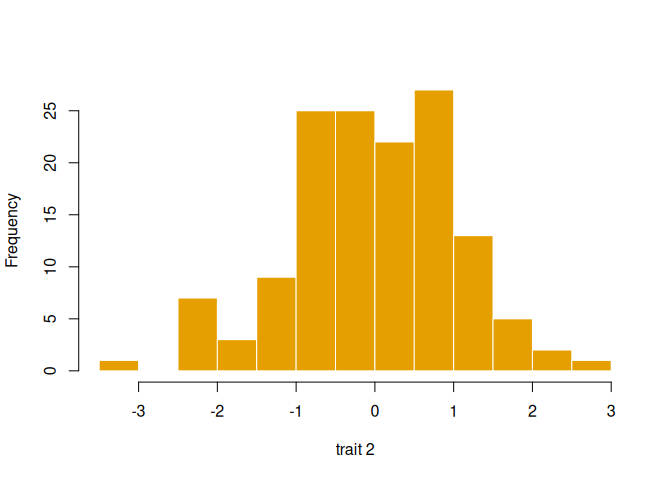
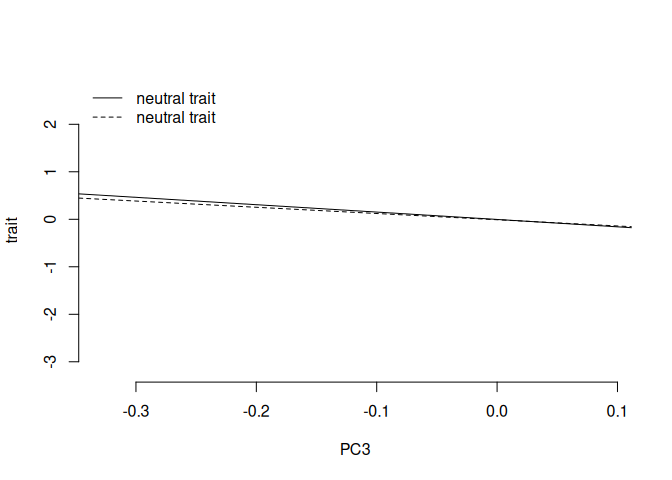
stuff

diff --git a/trait-sims.md b/trait-sims.md
@@ -50,27 +50,49 @@ cor.test(myZ[,1], myZ[,2])
 ## 0.3172595
 ```
 
-##2. Simulate trait data for 2 correlated traits where trait 1 is neutral and trait 2  is under selection.
+``` r
+par(mfrow=c(1,1))
+plot(myEig$vectors[,3],myZ[,2], xlab = "PC3", ylab = "trait", col="white", bty="n") #trait under selection
+abline(lm(myZ[,2]~myEig$vectors[,3]))
+abline(lm(myZ[,1]~myEig$vectors[,3]), lty=2)
+legend('topleft',c('neutral trait','neutral trait'),bty="n",lty=c(1,2))
+```
+
+![](trait-sims_files/figure-html/unnamed-chunk-1-2.png)<!-- -->
+
+##2. Simulate trait data for 2 correlated traits where trait 1 is neutral and trait 2  is under selection. No selection on plasticity or the reaction norm.
 
 
 ``` r
+tc = .6 #set trait cor
 myM = matrix(0, nrow=140, ncol=2)
-myV = matrix(c(1,.8,.8,1), nrow=2)
+myV = matrix(c(1,tc,tc,1), nrow=2)
 
+set.seed(555)
 #neutral traits
 myZ = matrix_normal(myM, myK, myV)
 
-#selected traits -- could add separate selection by adding different PCs into the mix. Yes, this is hacky. But right now what I'm doing in is adding the selection effect is the position on PC2*the variance explained by PC3 on trait 2. For trait 1, I'm multiplying this by the correlation btw traits
-selectionEffect = matrix(c(myEig$vectors[,3]*myEig$values[3]*.8, myEig$vectors[,3]*myEig$values[3]), nrow=140) 
+#selected traits -- could add separate selection by adding different PCs into the mix. Yes, this is hacky. But right now what I'm doing in is adding the selection effect is the position on PC3*the variance explained by PC3 on trait 2. For trait 1, I'm multiplying this by the correlation btw traits
+selectionEffect = matrix(c(myEig$vectors[,3]*myEig$values[3]*tc, myEig$vectors[,3]*myEig$values[3]), nrow=140) 
 myZs = myZ + selectionEffect
 
+par(mfrow=c(1,1))
+plot(myEig$vectors[,3],myZs[,2], xlab = "PC3", ylab = "trait", col="white", bty="n") #trait under selection
+abline(lm(myZs[,2]~myEig$vectors[,3]))
+abline(lm(myZs[,1]~myEig$vectors[,3]), lty=2)
+legend('topleft',c('selected trait','neutral trait'),bty="n",lty=c(1,2))
+```
+
+![](trait-sims_files/figure-html/unnamed-chunk-2-1.png)<!-- -->
+
+``` r
 par(mfrow=c(1,3))
 hist(myZs[,1], col = mycol[1], border="white", breaks=10, main = "", xlab = "trait 1")
 hist(myZs[,2], col = mycol[2], border="white", breaks=10, main= "", xlab = "trait 2")
 plot(myZs[,1], myZs[,2], xlab = "trait 1", ylab = "trait 2", bty="n", col = mycol[3], lwd=2)
 ```
 
-![](trait-sims_files/figure-html/unnamed-chunk-2-1.png)<!-- -->
+![](trait-sims_files/figure-html/unnamed-chunk-2-2.png)<!-- -->
 
 ``` r
 cor.test(myZ[,1], myZ[,2])
@@ -81,43 +103,25 @@ cor.test(myZ[,1], myZ[,2])
 ## 	Pearson's product-moment correlation
 ## 
 ## data:  myZ[, 1] and myZ[, 2]
-## t = 16.963, df = 138, p-value < 2.2e-16
+## t = 9.4973, df = 138, p-value < 2.2e-16
 ## alternative hypothesis: true correlation is not equal to 0
 ## 95 percent confidence interval:
-##  0.7598380 0.8694286
+##  0.5166893 0.7195517
 ## sample estimates:
 ##       cor 
-## 0.8221068
+## 0.6287001
 ```
 
 ``` r
-##does it work to create differences detectable by qpc
-myQpc1 = calcQpc(myZ = myZ[,1], myLambdas = myEig$values, myU = myEig$vectors, myM = 1:10, myL = 70:140)
+##does it work to create differences detectable by regular qpc
+
 myQpc1s = calcQpc(myZ = myZs[,1], myLambdas = myEig$values, myU = myEig$vectors, myM = 1:10, myL = 70:140)
-myQpc2 = calcQpc(myZ = myZ[,2], myLambdas = myEig$values, myU = myEig$vectors, myM = 1:10, myL = 70:140)
 myQpc2s = calcQpc(myZ = myZs[,2], myLambdas = myEig$values, myU = myEig$vectors, myM = 1:10, myL = 70:140)
-
-myQpc1$pvals[3]
-```
-
-```
-## [1] 0.9887872
-```
-
-``` r
 myQpc1s$pvals[3]
 ```
 
 ```
-## [1] 0.09973492
-```
-
-``` r
-myQpc2$pvals[3]
-```
-
-```
-## [1] 0.9509037
+## [1] 0.02213327
 ```
 
 ``` r
@@ -125,8 +129,74 @@ myQpc2s$pvals[3]
 ```
 
 ```
-## [1] 0.03481998
+## [1] 0.0004651775
 ```
 
+``` r
+#condQpc(myZs,, myM=3,myL=70:140)
+```
+
+##3 Now we want to simulate selection on the reaction norm
 
 
+``` r
+tc = .6 #set trait cor
+myM = matrix(0, nrow=140, ncol=2)
+myV = matrix(c(1,tc,tc,1), nrow=2)
+
+set.seed(555)
+myZ = matrix_normal(myM, myK, myV) ## sim the neutral traits
+
+
+#selected traits -- For trait 2, selection effect is PC3*5. For trait 1, selection effect is PC3*-5. So we have selection for different optima in each environment
+selectionEffect = matrix(-c(myEig$vectors[,3]*2, -5*myEig$vectors[,3]), nrow=140) 
+myZs = myZ + selectionEffect
+
+
+par(mfrow=c(1,2))
+plot(myEig$vectors[,3],myZs[,2], xlab = "PC3", ylab = "trait", col="white", bty="n") #trait under selection
+abline(lm(myZs[,2]~myEig$vectors[,3]), lty=2)
+abline(lm(myZs[,1]~myEig$vectors[,3]), lty=1)
+legend('topleft',c('trait 1','trait2'),bty="n",lty=c(1,2))
+
+plot(myZs[,1], myZs[,2], xlab = "trait 1", ylab = "trait 2", bty="n", col = mycol[3], lwd=2)
+abline(lm(myZs[,1]~myZs[,2]), lty=1)
+```
+
+![](trait-sims_files/figure-html/unnamed-chunk-3-1.png)<!-- -->
+
+``` r
+#is there selection on trait 1?
+calcQpc(myZ = myZs[,1], myLambdas = myEig$values, myU = myEig$vectors, myM = 1:3, myL = 70:140)$pvals[3]
+```
+
+```
+## [1] 0.9812383
+```
+
+``` r
+#is there selection on trait 2
+calcQpc(myZ = myZs[,2], myLambdas = myEig$values, myU = myEig$vectors, myM = 1:3, myL = 70:140)$pvals[3]
+```
+
+```
+## [1] 3.264703e-05
+```
+
+``` r
+#is there selection on mean?
+calcQpc(myZ = (myZs[,1]+myZs[,2])/2, myLambdas = myEig$values, myU = myEig$vectors, myM = 1:3, myL = 70:140)$pvals[3]
+```
+
+```
+## [1] 0.0168443
+```
+
+``` r
+#is there selection on reaction norm?
+calcQpc(myZ = myZs[,1]-myZs[,2], myLambdas = myEig$values, myU = myEig$vectors, myM = 1:3, myL = 70:140)$pvals[3]
+```
+
+```
+## [1] 6.095792e-07
+```
